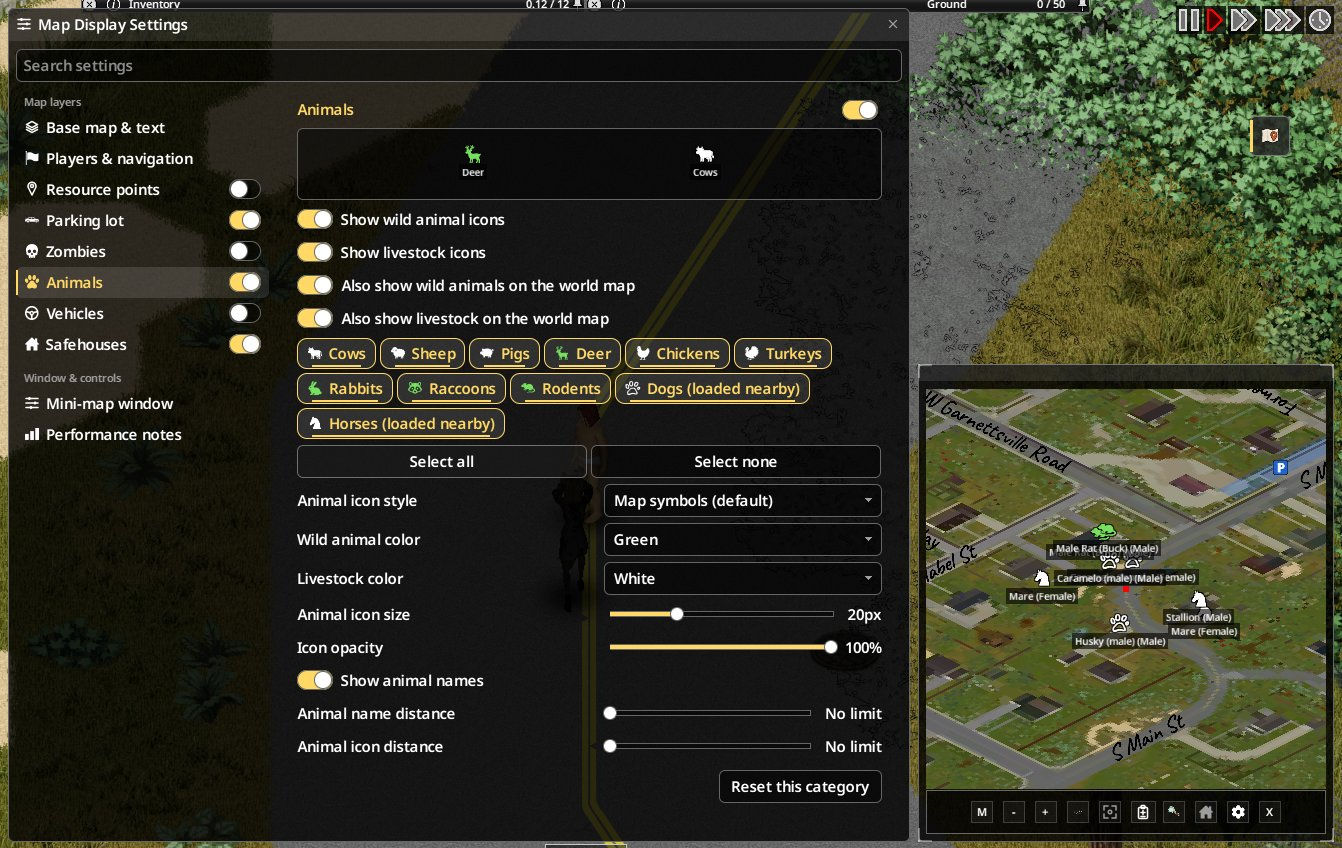
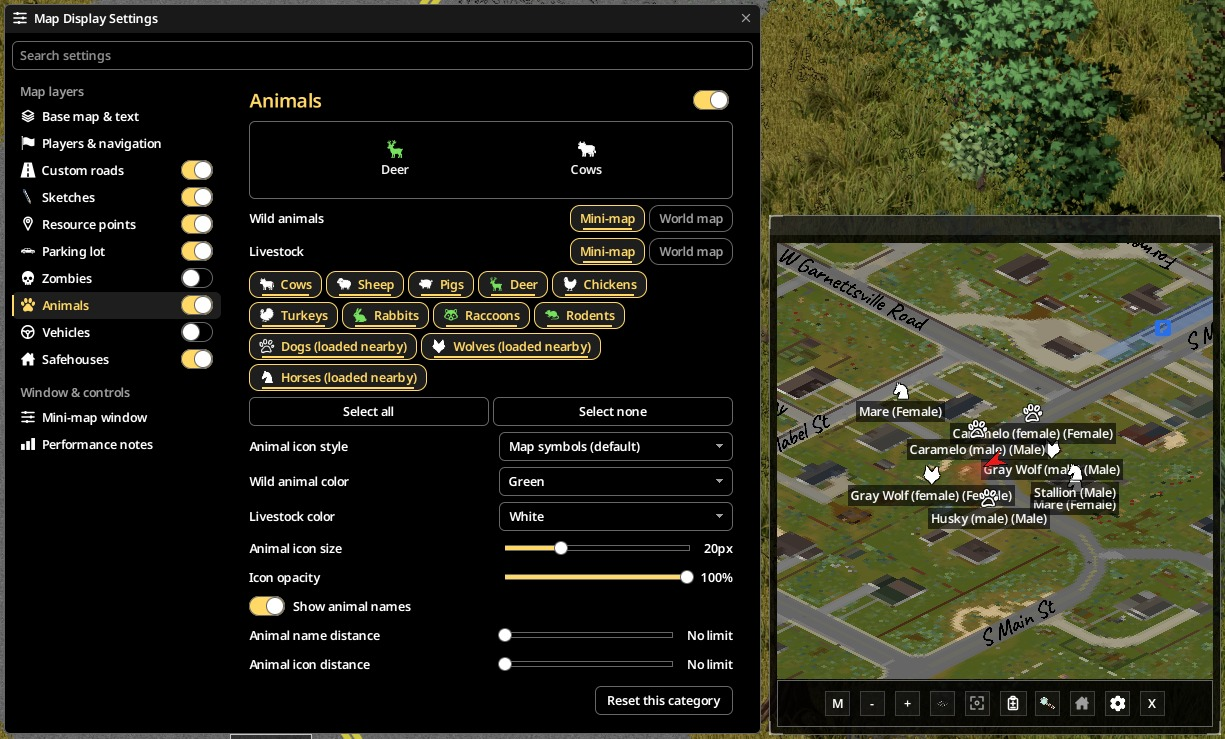
文件：README、Steam 簡介與指南、CHANGELOG 加入狼；指南截圖重拍（狗、狼、馬）
指南截圖在 9950X3D 用 guide-shots-sp 重拍（mmc-wolf1114-gs2-CH／EN，各 3 步 4 檢查 PASS）。
實機：registry SP／MP 各 3 步 27 檢查 PASS（mmc-wolf1114-reg-sp／mp），wolf 的篩選項、標籤、
兩張貼圖與 AnimalDefinitions 的 group 都對上。CHANGELOG 先放 Unreleased，發版時改成版本標題。

diff --git a/STEAM_GUIDE_EN.md b/STEAM_GUIDE_EN.md
@@ -1,7 +1,7 @@
 <!-- 指南網址：https://steamcommunity.com/sharedfiles/filedetails/?id=3817848926 -->
 <!-- Steam guide source (English): the full reference for this mod; the Workshop description only summarizes, requests stay in the original thread. Format and sync: pz-family-docs/release.md「完整說明：Steam 指南」 -->
 <!-- 標題：📖 MiniMap - MOD Compatibility Guide: Supported Mods, Multiplayer & FAQ -->
-<!-- 摘要：Illustrated guide to the Minidoracat MiniMap MOD Compatibility pack: which third-party mods it supports, what dogs and horses actually do on the map, NPC colors for Bandits and Project A-Life, map markers for Dynamic Outposts outposts and Random Airdrops airdrops, multiplayer notes, FAQ, original authors and asset boundary, and how support requests are evaluated. -->
+<!-- 摘要：Illustrated guide to the Minidoracat MiniMap MOD Compatibility pack: which third-party mods it supports, what dogs, wolves and horses actually do on the map, NPC colors for Bandits and Project A-Life, map markers for Dynamic Outposts outposts and Random Airdrops airdrops, multiplayer notes, FAQ, original authors and asset boundary, and how support requests are evaluated. -->
 === 🚀 Quick start
 [b]繁體中文版：[/b][url=https://steamcommunity.com/sharedfiles/filedetails/?id=3817848780]小地圖 - MOD 相容包 完整說明[/url]
 
@@ -10,7 +10,7 @@ https://steamcommunity.com/sharedfiles/filedetails/?id=3765182411
 [olist]
 [*] [b]Subscribe and enable[/b]: [url=https://steamcommunity.com/sharedfiles/filedetails/?id=3763913359]Minidoracat MiniMap[/url] (main mod), this pack, and the third-party mod you want supported. In multiplayer, the server must enable all three.
 [*] [b]Turn on animal icons[/b]: in the main mod's animal icon settings (they are off by default).
-[*] [b]Toggle each one[/b]: "Dogs (loaded nearby)" and "Horses (loaded nearby)" appear in the species filter.
+[*] [b]Toggle each one[/b]: "Dogs (loaded nearby)", "Horses (loaded nearby)" and "Wolves (loaded nearby)" appear in the species filter.
 [*] [b]NPC colors[/b]: turn on the main mod's "Show zombie dots on the mini-map" (off by default), and NPCs from Bandits and Project A-Life are drawn in their own color among the zombie dots.
 [*] [b]Outposts and airdrops[/b]: nothing to set up; with Dynamic Outposts or Random Airdrops HF enabled they show on the mini-map.
 [/olist]
@@ -21,7 +21,7 @@ https://steamcommunity.com/sharedfiles/filedetails/?id=3765182411
 === 🧰 Currently supported
 [table]
 [tr][th]Third-party mod[/th][th]Mod ID[/th][th]What it does on the map[/th][th]Icons or color[/th][/tr]
-[tr][td][url=https://steamcommunity.com/sharedfiles/filedetails/?id=3740052292]Companion Dogs [ALPHA][/url][/td][td]CompanionDogs[/td][td]Adds dog to the species filter[/td][td]Vanilla paw-print symbol, this pack's colored dog icon[/td][/tr]
+[tr][td][url=https://steamcommunity.com/sharedfiles/filedetails/?id=3740052292]Companion Dogs [ALPHA][/url][/td][td]CompanionDogs[/td][td]Adds dog and wolf to the species filter[/td][td]Dogs: vanilla paw-print symbol, this pack's colored dog icon; wolves: this pack's wolf-head symbol and colored wolf icon[/td][/tr]
 [tr][td][url=https://steamcommunity.com/sharedfiles/filedetails/?id=3661336777]Horse Mod [B42.14+/MP SOON][/url][/td][td]Horse[/td][td]Adds horse to the species filter[/td][td]This pack's horse-head symbol and colored horse icon[/td][/tr]
 [tr][td][url=https://steamcommunity.com/sharedfiles/filedetails/?id=3268487204][B42] Bandits NPC[/url][/td][td]Bandits2[/td][td]Colors its NPCs among the zombie dots[/td][td]Sky blue by default[/td][/tr]
 [tr][td][url=https://steamcommunity.com/sharedfiles/filedetails/?id=3803984183]Project A-Life [ALIFE NPCS][/url][/td][td]ProjectALifeNPCs[/td][td]Colors its NPCs among the zombie dots[/td][td]Green by default (sky blue when it is the only one enabled)[/td][/tr]
@@ -37,7 +37,7 @@ https://steamcommunity.com/sharedfiles/filedetails/?id=3765182411
 [list]
 [*] [b]Original authors[/b]: Companion Dogs, [url=https://steamcommunity.com/sharedfiles/filedetails/?id=3661336777]Horse Mod[/url], Bandits, Project A-Life, Dynamic Outposts and Random Airdrops HF belong to their original authors.
 [*] [b]Requires the original mods[/b]: this pack does not copy or repackage their code, models, textures, or sounds.
-[*] [b]Original assets[/b]: the colored dog and horse icons, the horse-head symbol and the airdrop and infested-point icons were made for this compatibility pack; outpost icons reuse the main mod's resource point icons. NPC colors use no images.
+[*] [b]Original assets[/b]: the colored dog, horse and wolf icons, the horse-head and wolf-head symbols, and the airdrop and infested-point icons were made for this compatibility pack; outpost icons reuse the main mod's resource point icons. NPC colors use no images.
 [/list]
 === 🧰 Companion Dogs
 {{img:01-symbol-en.jpg}}
@@ -50,6 +50,7 @@ https://steamcommunity.com/sharedfiles/filedetails/?id=3765182411
 [*] [b]No extra layer by default[/b]: animal icons in the main mod are off by default, so no extra generic dog icon is drawn.
 [*] [b]Only want Companion Dogs' markers?[/b] Untick "Dogs" in the main mod's animal icon species filter.
 [*] [b]Never hides the whole group[/b]: the [b]dog[/b] group can include both companion and stray dogs, so you decide in the filter.
+[*] [b]Wolves[/b]: Companion Dogs 0.9.0 and later has wolves that attack players (with the sandbox option "Aggressive animals" on, wolf packs appear in forests). Nearby loaded animals in the [b]wolf[/b] group appear under a separate "Wolves (loaded nearby)" filter entry, using this pack's original wolf-head symbol (symbol style) or colored wolf icon (colored style); untick "Wolves" to hide them. With an older Companion Dogs that has no wolves, the "Wolves" entry still appears but shows nothing.
 [/list]
 === 🧰 Horse Mod
 {{img:02-item-en.jpg}}
@@ -102,13 +103,14 @@ https://steamcommunity.com/sharedfiles/filedetails/?id=3765182411
 [*] [b]Upstream limits stay[/b]: this compatibility feature does not change or bypass those upstream limitations.
 [/list]
 === ❓ FAQ
-[h3]I installed the pack but see no dogs or horses on the map?[/h3]
+[h3]I installed the pack but see no dogs, horses or wolves on the map?[/h3]
 [list]
 [*] Make sure the main mod's animal icons are on (they are off by default).
-[*] Make sure "Dogs"/"Horses" are ticked in the species filter.
+[*] Make sure "Dogs"/"Horses"/"Wolves" are ticked in the species filter.
+[*] Wolves need Companion Dogs 0.9.0 or later, and only appear in forests with the sandbox option "Aggressive animals" on.
 [*] Only animals loaded near you are shown.
 [/list]
-[h3]There is no "Dogs" or "Horses" entry in the filter?[/h3]
+[h3]There is no "Dogs", "Horses" or "Wolves" entry in the filter?[/h3]
 [list]
 [*] The matching third-party mod is not enabled.
 [*] In multiplayer, the server has to enable it.

diff --git a/STEAM_GUIDE.md b/STEAM_GUIDE.md
@@ -1,7 +1,7 @@
 <!-- 指南網址：https://steamcommunity.com/sharedfiles/filedetails/?id=3817848780 -->
 <!-- Steam 指南稿源（繁中）：MOD 的完整說明以本指南為準，簡介只放摘要；許願留在原說明串。格式與同步方式見 pz-family-docs/release.md「完整說明：Steam 指南」 -->
 <!-- 標題：📖 小地圖 - MOD 相容包 完整說明：支援的 MOD、多人注意與常見問題 -->
-<!-- 摘要：Minidoracat 小地圖 MOD 相容包的圖文說明：支援哪些第三方 MOD、狗與馬在地圖上的實際行為、Bandits 與 Project A-Life 的 NPC 換色、Dynamic Outposts 前哨站與 Random Airdrops 空投的地圖標記、多人注意事項、常見問題、原作者與素材邊界，以及支援新 MOD 的評估原則。 -->
+<!-- 摘要：Minidoracat 小地圖 MOD 相容包的圖文說明：支援哪些第三方 MOD、狗、狼與馬在地圖上的實際行為、Bandits 與 Project A-Life 的 NPC 換色、Dynamic Outposts 前哨站與 Random Airdrops 空投的地圖標記、多人注意事項、常見問題、原作者與素材邊界，以及支援新 MOD 的評估原則。 -->
 === 🚀 快速上手
 [b]English version:[/b] [url=https://steamcommunity.com/sharedfiles/filedetails/?id=3817848926]MiniMap - MOD Compatibility Guide[/url]
 
@@ -10,7 +10,7 @@ https://steamcommunity.com/sharedfiles/filedetails/?id=3765182411
 [olist]
 [*] [b]訂閱並啟用[/b]：[url=https://steamcommunity.com/sharedfiles/filedetails/?id=3763913359]Minidoracat MiniMap[/url]（主 MOD）、本相容包，以及要支援的第三方 MOD。多人時伺服器三者都要啟用。
 [*] [b]開啟動物圖標[/b]：在主 MOD 的動物圖標設定中開啟（預設是關閉的）。
-[*] [b]個別開關[/b]：物種篩選會出現「狗（附近已載入）」「馬（附近已載入）」。
+[*] [b]個別開關[/b]：物種篩選會出現「狗（附近已載入）」「馬（附近已載入）」「狼（附近已載入）」。
 [*] [b]NPC 換色[/b]：開啟主 MOD 的「在小地圖顯示殭屍點位」（預設關），Bandits 與 Project A-Life 的 NPC 就會在殭屍點位裡用自己的顏色。
 [*] [b]前哨站與空投[/b]：不用設定，啟用 Dynamic Outposts 或 Random Airdrops HF 後就會畫在小地圖。
 [/olist]
@@ -21,7 +21,7 @@ https://steamcommunity.com/sharedfiles/filedetails/?id=3765182411
 === 🧰 目前支援
 [table]
 [tr][th]第三方 MOD[/th][th]Mod ID[/th][th]地圖上的效果[/th][th]圖標或顏色[/th][/tr]
-[tr][td][url=https://steamcommunity.com/sharedfiles/filedetails/?id=3740052292]Companion Dogs [ALPHA][/url][/td][td]CompanionDogs[/td][td]物種篩選加入 dog[/td][td]原版爪印符號、本包彩色狗圖[/td][/tr]
+[tr][td][url=https://steamcommunity.com/sharedfiles/filedetails/?id=3740052292]Companion Dogs [ALPHA][/url][/td][td]CompanionDogs[/td][td]物種篩選加入 dog、wolf[/td][td]狗：原版爪印符號、本包彩色狗圖；狼：本包狼頭符號、彩色狼圖[/td][/tr]
 [tr][td][url=https://steamcommunity.com/sharedfiles/filedetails/?id=3661336777]Horse Mod [B42.14+/MP SOON][/url][/td][td]Horse[/td][td]物種篩選加入 horse[/td][td]本包馬頭符號、彩色馬圖[/td][/tr]
 [tr][td][url=https://steamcommunity.com/sharedfiles/filedetails/?id=3268487204][B42] Bandits NPC[/url][/td][td]Bandits2[/td][td]殭屍點位裡的 NPC 換色[/td][td]預設天藍[/td][/tr]
 [tr][td][url=https://steamcommunity.com/sharedfiles/filedetails/?id=3803984183]Project A-Life [ALIFE NPCS][/url][/td][td]ProjectALifeNPCs[/td][td]殭屍點位裡的 NPC 換色[/td][td]預設綠（只啟用它時是天藍）[/td][/tr]
@@ -37,7 +37,7 @@ https://steamcommunity.com/sharedfiles/filedetails/?id=3765182411
 [list]
 [*] [b]原作者[/b]：Companion Dogs、[url=https://steamcommunity.com/sharedfiles/filedetails/?id=3661336777]Horse Mod[/url]、Bandits、Project A-Life、Dynamic Outposts 與 Random Airdrops HF 分屬各自的原作者（團隊）。
 [*] [b]必須搭配原始 MOD[/b]：本包不複製或重包第三方 MOD 的程式、模型、貼圖或音效。
-[*] [b]自製素材[/b]：狗與馬的彩圖、馬頭符號、空投與感染點圖示都是本相容包自行製作的；前哨站圖示借用主 MOD 的資源點圖示。NPC 換色不用任何圖片。
+[*] [b]自製素材[/b]：狗、馬與狼的彩圖，馬頭與狼頭符號，空投與感染點圖示都是本相容包自行製作的；前哨站圖示借用主 MOD 的資源點圖示。NPC 換色不用任何圖片。
 [/list]
 === 🧰 Companion Dogs
 {{img:01-symbol-zh.jpg}}
@@ -50,6 +50,7 @@ https://steamcommunity.com/sharedfiles/filedetails/?id=3765182411
 [*] [b]預設不多畫一層[/b]：主 MOD 的動物圖標預設關閉，所以預設不會多畫泛用狗圖標。
 [*] [b]只想保留 Companion Dogs 的 marker[/b]：在主 MOD「動物圖標」物種篩選取消「狗」。
 [*] [b]不隱藏整個群組[/b]：[b]dog[/b] 群組可能同時包含同伴狗與流浪狗，要不要顯示由你在篩選中決定。
+[*] [b]狼[/b]：Companion Dogs 0.9.0 起有會攻擊玩家的狼（沙盒「Aggressive animals」開啟時狼群出現在森林）。附近已載入、屬於 [b]wolf[/b] 群組的狼會出現在獨立的「狼（附近已載入）」篩選項，符號風格用本包自製的狼頭符號，彩圖風格用本包自製的彩色狼圖；不想看可個別取消「狼」。Companion Dogs 舊版沒有狼時，篩選仍會多一格「狼」，但不會有東西。
 [/list]
 === 🧰 Horse Mod
 {{img:02-item-zh.jpg}}
@@ -102,13 +103,14 @@ https://steamcommunity.com/sharedfiles/filedetails/?id=3765182411
 [*] [b]不繞過上游限制[/b]：本相容功能不會改變或繞過 Horse Mod 的多人限制。
 [/list]
 === ❓ 常見問題
-[h3]裝了相容包，地圖上卻沒看到狗或馬？[/h3]
+[h3]裝了相容包，地圖上卻沒看到狗、馬或狼？[/h3]
 [list]
 [*] 先確認主 MOD 的動物圖標有開啟（預設關閉）。
-[*] 確認物種篩選中「狗」「馬」沒有被取消。
+[*] 確認物種篩選中「狗」「馬」「狼」沒有被取消。
+[*] 狼要 Companion Dogs 0.9.0 以上，且沙盒「Aggressive animals」開啟才會出現在森林。
 [*] 只會顯示你附近已載入的動物。
 [/list]
-[h3]篩選裡沒有「狗」或「馬」選項？[/h3]
+[h3]篩選裡沒有「狗」「馬」或「狼」選項？[/h3]
 [list]
 [*] 對應的第三方 MOD 沒有啟用。
 [*] 多人時要由伺服器啟用。

diff --git a/STEAM_DESCRIPTION_JP.md b/STEAM_DESCRIPTION_JP.md
@@ -18,7 +18,7 @@
 [olist]
 [*] 本体 MOD、本互換パック、対応させたいサードパーティ MOD を購読して有効化します
 [*] 本体 MOD の動物アイコン設定で動物アイコンを ON にします
-[*] 種別フィルターに「犬（周辺で読み込み済み）」「馬（周辺で読み込み済み）」が追加され、個別に切り替えられます
+[*] 種別フィルターに「犬（周辺で読み込み済み）」「馬（周辺で読み込み済み）」「オオカミ（周辺で読み込み済み）」が追加され、個別に切り替えられます
 [*] NPC の色分けを見るには、本体 MOD の「ミニマップにゾンビドットを表示」を ON にします
 [/olist]
 
@@ -27,7 +27,7 @@
 [*] [b]対応 MOD[/b]：[url=https://steamcommunity.com/sharedfiles/filedetails/?id=3740052292]Companion Dogs[/url]、[url=https://steamcommunity.com/sharedfiles/filedetails/?id=3661336777]Horse Mod[/url]、[url=https://steamcommunity.com/sharedfiles/filedetails/?id=3268487204]Bandits[/url]、[url=https://steamcommunity.com/sharedfiles/filedetails/?id=3803984183]Project A-Life[/url]、[url=https://steamcommunity.com/sharedfiles/filedetails/?id=3791152383]Dynamic Outposts[/url]、[url=https://steamcommunity.com/sharedfiles/filedetails/?id=3789197845]Random Airdrops HF[/url]
 [*] [b]NPC の色分け[/b]：Bandits と Project A-Life の NPC をゾンビドットの中で専用の色で表示します
 [*] [b]前哨基地とエアドロップ[/b]：前哨基地、感染エリア、エアドロップの落下地点もミニマップに表示します
-[*] [b]専用アイコン[/b]：犬は標準の足跡かカラー犬アイコン、馬は馬頭シンボルかカラー馬アイコン
+[*] [b]専用アイコン[/b]：犬は標準の足跡かカラー犬アイコン、馬は馬頭シンボルかカラー馬アイコン、オオカミはオオカミ頭シンボルかカラーオオカミアイコン
 [*] [b]marker は置き換えない[/b]：サードパーティ MOD 独自の marker はそのまま動作します
 [*] [b]未導入なら何もしない[/b]：対応 MOD がなければ余計な設定やエラーを出しません
 [*] [b]他 MOD の素材は含まない[/b]：サードパーティ MOD のコード・モデル・テクスチャ・音声は含みません

diff --git a/STEAM_DESCRIPTION_EN.md b/STEAM_DESCRIPTION_EN.md
@@ -18,7 +18,7 @@ Keep every Minidoracat MiniMap series mod up to date and restart the game after 
 [olist]
 [*] Subscribe to and enable the main MOD, this pack and the third-party MOD you want supported
 [*] Turn on animal icons in the main MOD's animal icon settings
-[*] “Dogs (loaded nearby)” and “Horses (loaded nearby)” appear in the species filter and can be toggled individually
+[*] “Dogs (loaded nearby)”, “Horses (loaded nearby)” and “Wolves (loaded nearby)” appear in the species filter and can be toggled individually
 [*] To see NPC colors, turn on the main MOD's “Show zombie dots on the mini-map”
 [/olist]
 
@@ -27,7 +27,7 @@ Keep every Minidoracat MiniMap series mod up to date and restart the game after 
 [*] [b]Supported MODs[/b]: [url=https://steamcommunity.com/sharedfiles/filedetails/?id=3740052292]Companion Dogs[/url], [url=https://steamcommunity.com/sharedfiles/filedetails/?id=3661336777]Horse Mod[/url], [url=https://steamcommunity.com/sharedfiles/filedetails/?id=3268487204]Bandits[/url], [url=https://steamcommunity.com/sharedfiles/filedetails/?id=3803984183]Project A-Life[/url], [url=https://steamcommunity.com/sharedfiles/filedetails/?id=3791152383]Dynamic Outposts[/url] and [url=https://steamcommunity.com/sharedfiles/filedetails/?id=3789197845]Random Airdrops HF[/url]
 [*] [b]NPC colors[/b]: NPCs from Bandits and Project A-Life get their own color among the zombie dots
 [*] [b]Outposts and airdrops[/b]: outposts, infested areas and airdrop drop points also show on the mini-map
-[*] [b]Dedicated icons[/b]: dogs use the vanilla paw print or a colored dog icon; horses use a horse-head symbol or a colored horse icon
+[*] [b]Dedicated icons[/b]: dogs use the vanilla paw print or a colored dog icon; horses use a horse-head symbol or a colored horse icon; wolves use a wolf-head symbol or a colored wolf icon
 [*] [b]Markers left alone[/b]: third-party MODs' own markers keep working
 [*] [b]Inactive when absent[/b]: without the matching MOD, no extra options and no errors
 [*] [b]No third-party assets[/b]: contains no third-party code, models, textures or sounds

diff --git a/STEAM_DESCRIPTION.md b/STEAM_DESCRIPTION.md
@@ -18,7 +18,7 @@
 [olist]
 [*] 訂閱並啟用主 MOD、本相容包與要支援的第三方 MOD
 [*] 在主 MOD 的動物圖標設定中開啟動物圖標
-[*] 物種篩選會出現「狗（附近已載入）」「馬（附近已載入）」，可個別開關
+[*] 物種篩選會出現「狗（附近已載入）」「馬（附近已載入）」「狼（附近已載入）」，可個別開關
 [*] 要看 NPC 換色，開啟主 MOD 的「在小地圖顯示殭屍點位」
 [/olist]
 
@@ -27,7 +27,7 @@
 [*] [b]支援的 MOD[/b]：[url=https://steamcommunity.com/sharedfiles/filedetails/?id=3740052292]Companion Dogs[/url]、[url=https://steamcommunity.com/sharedfiles/filedetails/?id=3661336777]Horse Mod[/url]、[url=https://steamcommunity.com/sharedfiles/filedetails/?id=3268487204]Bandits[/url]、[url=https://steamcommunity.com/sharedfiles/filedetails/?id=3803984183]Project A-Life[/url]、[url=https://steamcommunity.com/sharedfiles/filedetails/?id=3791152383]Dynamic Outposts[/url]、[url=https://steamcommunity.com/sharedfiles/filedetails/?id=3789197845]Random Airdrops HF[/url]
 [*] [b]NPC 換色[/b]：Bandits 與 Project A-Life 的 NPC 在殭屍點位裡換成各自的顏色
 [*] [b]前哨站與空投[/b]：前哨站、感染點與空投落點也畫在小地圖
-[*] [b]專屬圖標[/b]：狗用原版爪印或彩色狗圖，馬用馬頭符號或彩色馬圖
+[*] [b]專屬圖標[/b]：狗用原版爪印或彩色狗圖，馬用馬頭符號或彩色馬圖，狼用狼頭符號或彩色狼圖
 [*] [b]不接管 marker[/b]：第三方 MOD 自己的 marker 照常運作
 [*] [b]沒裝就不作用[/b]：沒裝對應 MOD 時不增加選項，也不產生錯誤
 [*] [b]不含第三方素材[/b]：不含第三方 MOD 的程式、模型、貼圖或音效

diff --git a/STEAM_DESCRIPTION_CN.md b/STEAM_DESCRIPTION_CN.md
@@ -18,7 +18,7 @@
 [olist]
 [*] 订阅并启用主 MOD、本兼容包与要支持的第三方 MOD
 [*] 在主 MOD 的动物图标设置中打开动物图标
-[*] 物种筛选会出现「狗（附近已加载）」「马（附近已加载）」，可分别开关
+[*] 物种筛选会出现「狗（附近已加载）」「马（附近已加载）」「狼（附近已加载）」，可分别开关
 [*] 要看 NPC 换色，打开主 MOD 的「在小地图显示丧尸点位」
 [/olist]
 
@@ -27,7 +27,7 @@
 [*] [b]支持的 MOD[/b]：[url=https://steamcommunity.com/sharedfiles/filedetails/?id=3740052292]Companion Dogs[/url]、[url=https://steamcommunity.com/sharedfiles/filedetails/?id=3661336777]Horse Mod[/url]、[url=https://steamcommunity.com/sharedfiles/filedetails/?id=3268487204]Bandits[/url]、[url=https://steamcommunity.com/sharedfiles/filedetails/?id=3803984183]Project A-Life[/url]、[url=https://steamcommunity.com/sharedfiles/filedetails/?id=3791152383]Dynamic Outposts[/url]、[url=https://steamcommunity.com/sharedfiles/filedetails/?id=3789197845]Random Airdrops HF[/url]
 [*] [b]NPC 换色[/b]：Bandits 与 Project A-Life 的 NPC 在丧尸点位里换成各自的颜色
 [*] [b]前哨站与空投[/b]：前哨站、感染点与空投落点也画在小地图
-[*] [b]专属图标[/b]：狗用原版爪印或彩色狗图，马用马头符号或彩色马图
+[*] [b]专属图标[/b]：狗用原版爪印或彩色狗图，马用马头符号或彩色马图，狼用狼头符号或彩色狼图
 [*] [b]不接管 marker[/b]：第三方 MOD 自己的 marker 照常工作
 [*] [b]没装就不生效[/b]：没装对应 MOD 时不增加选项，也不产生错误
 [*] [b]不含第三方素材[/b]：不含第三方 MOD 的代码、模型、贴图或音效

diff --git a/CHANGELOG.md b/CHANGELOG.md
@@ -1,5 +1,13 @@
 # Changelog
 
+## [Unreleased]
+
+### 新增
+
+- **支援 Companion Dogs 的狼**：Companion Dogs 0.9.0 加入會攻擊玩家的狼。啟用 Companion Dogs 時，動物物種篩選多一格「狼（附近已載入）」，可以單獨開關；符號風格用狼頭符號，彩圖風格用彩色狼圖。之前狼和不認得的動物一樣只畫成腳印，也關不掉。和狗一樣，要先開主 MOD 的動物圖標，而且只顯示附近已載入的狼。Companion Dogs 還沒更新到 0.9.0 時，篩選會多這一格但沒有狼可顯示。
+
+> 技術要點：`registerAnimalGroup` 多登記 group `wolf`（Mod ID 仍是 `CompanionDogs`），符號 `media/ui/MinidoracatMiniMapCompat/map_wolf.png`、彩圖 `media/textures/Item_MinidoracatMiniMapCompat_Wolf.png`，兩張都是本包自製。登記順序是狗、狼、馬。
+
 ## [42.21.0-0.4.0] - 2026-11-08
 
 ### 新增
